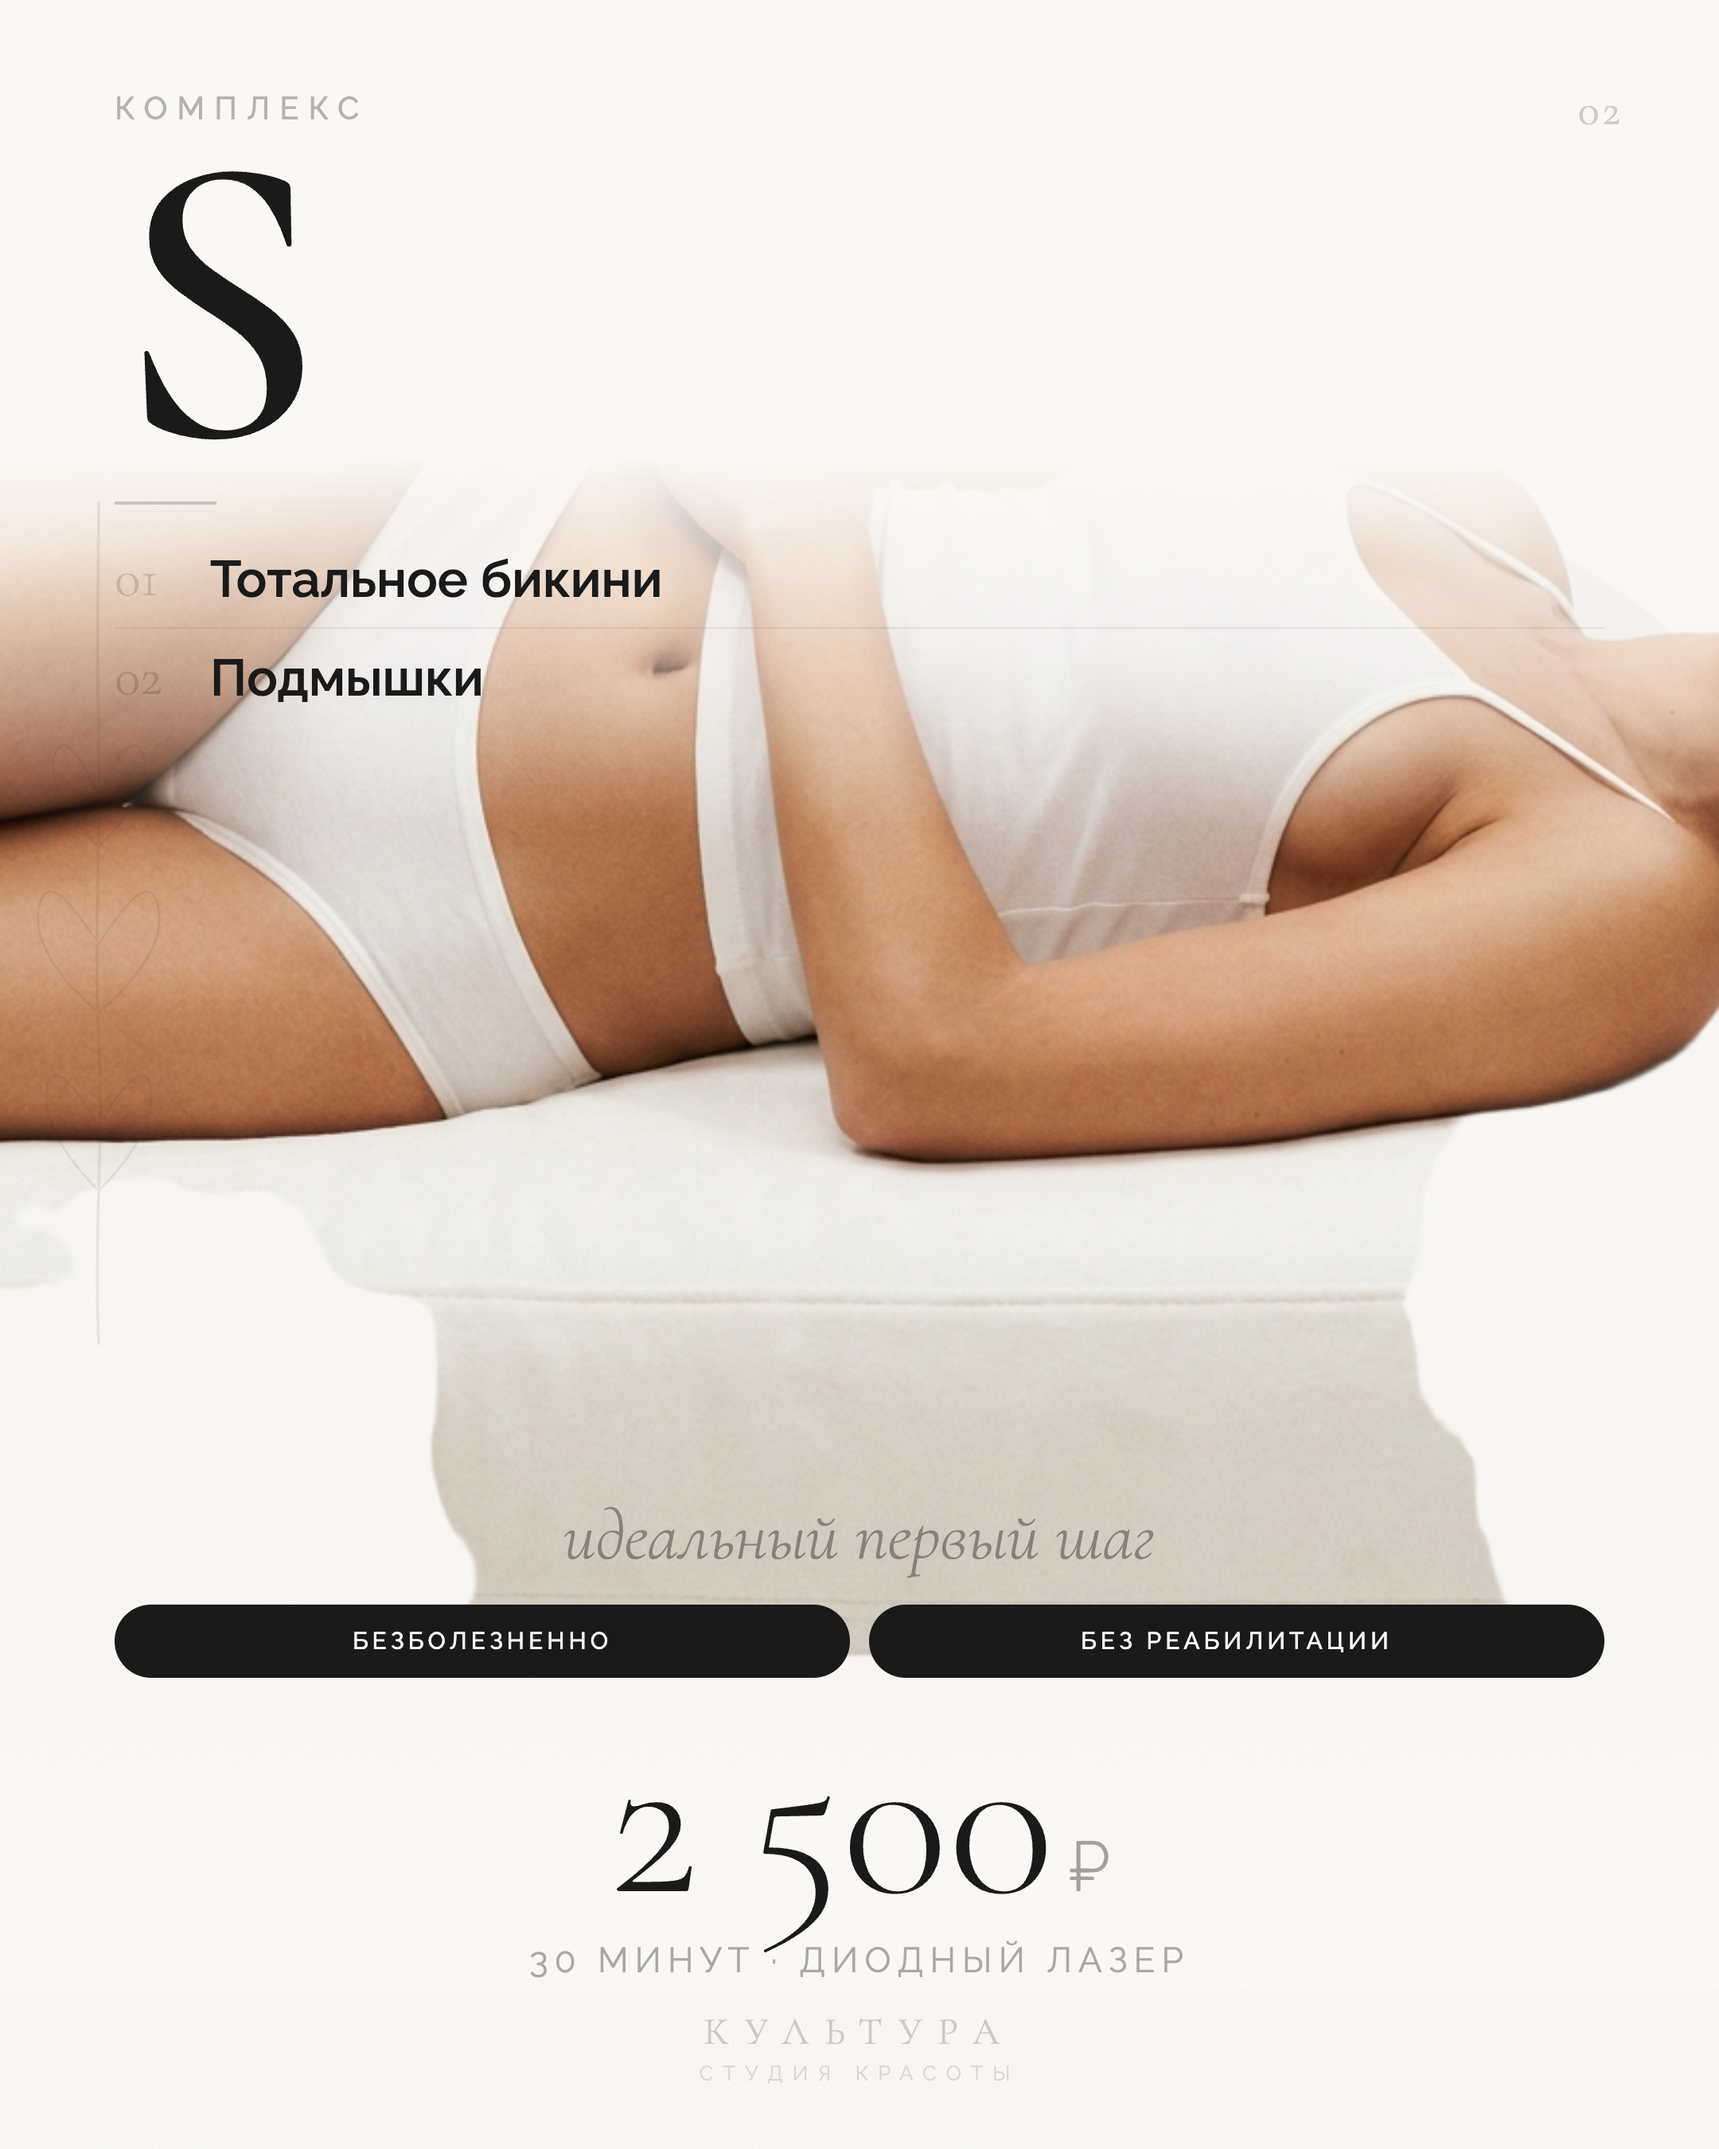
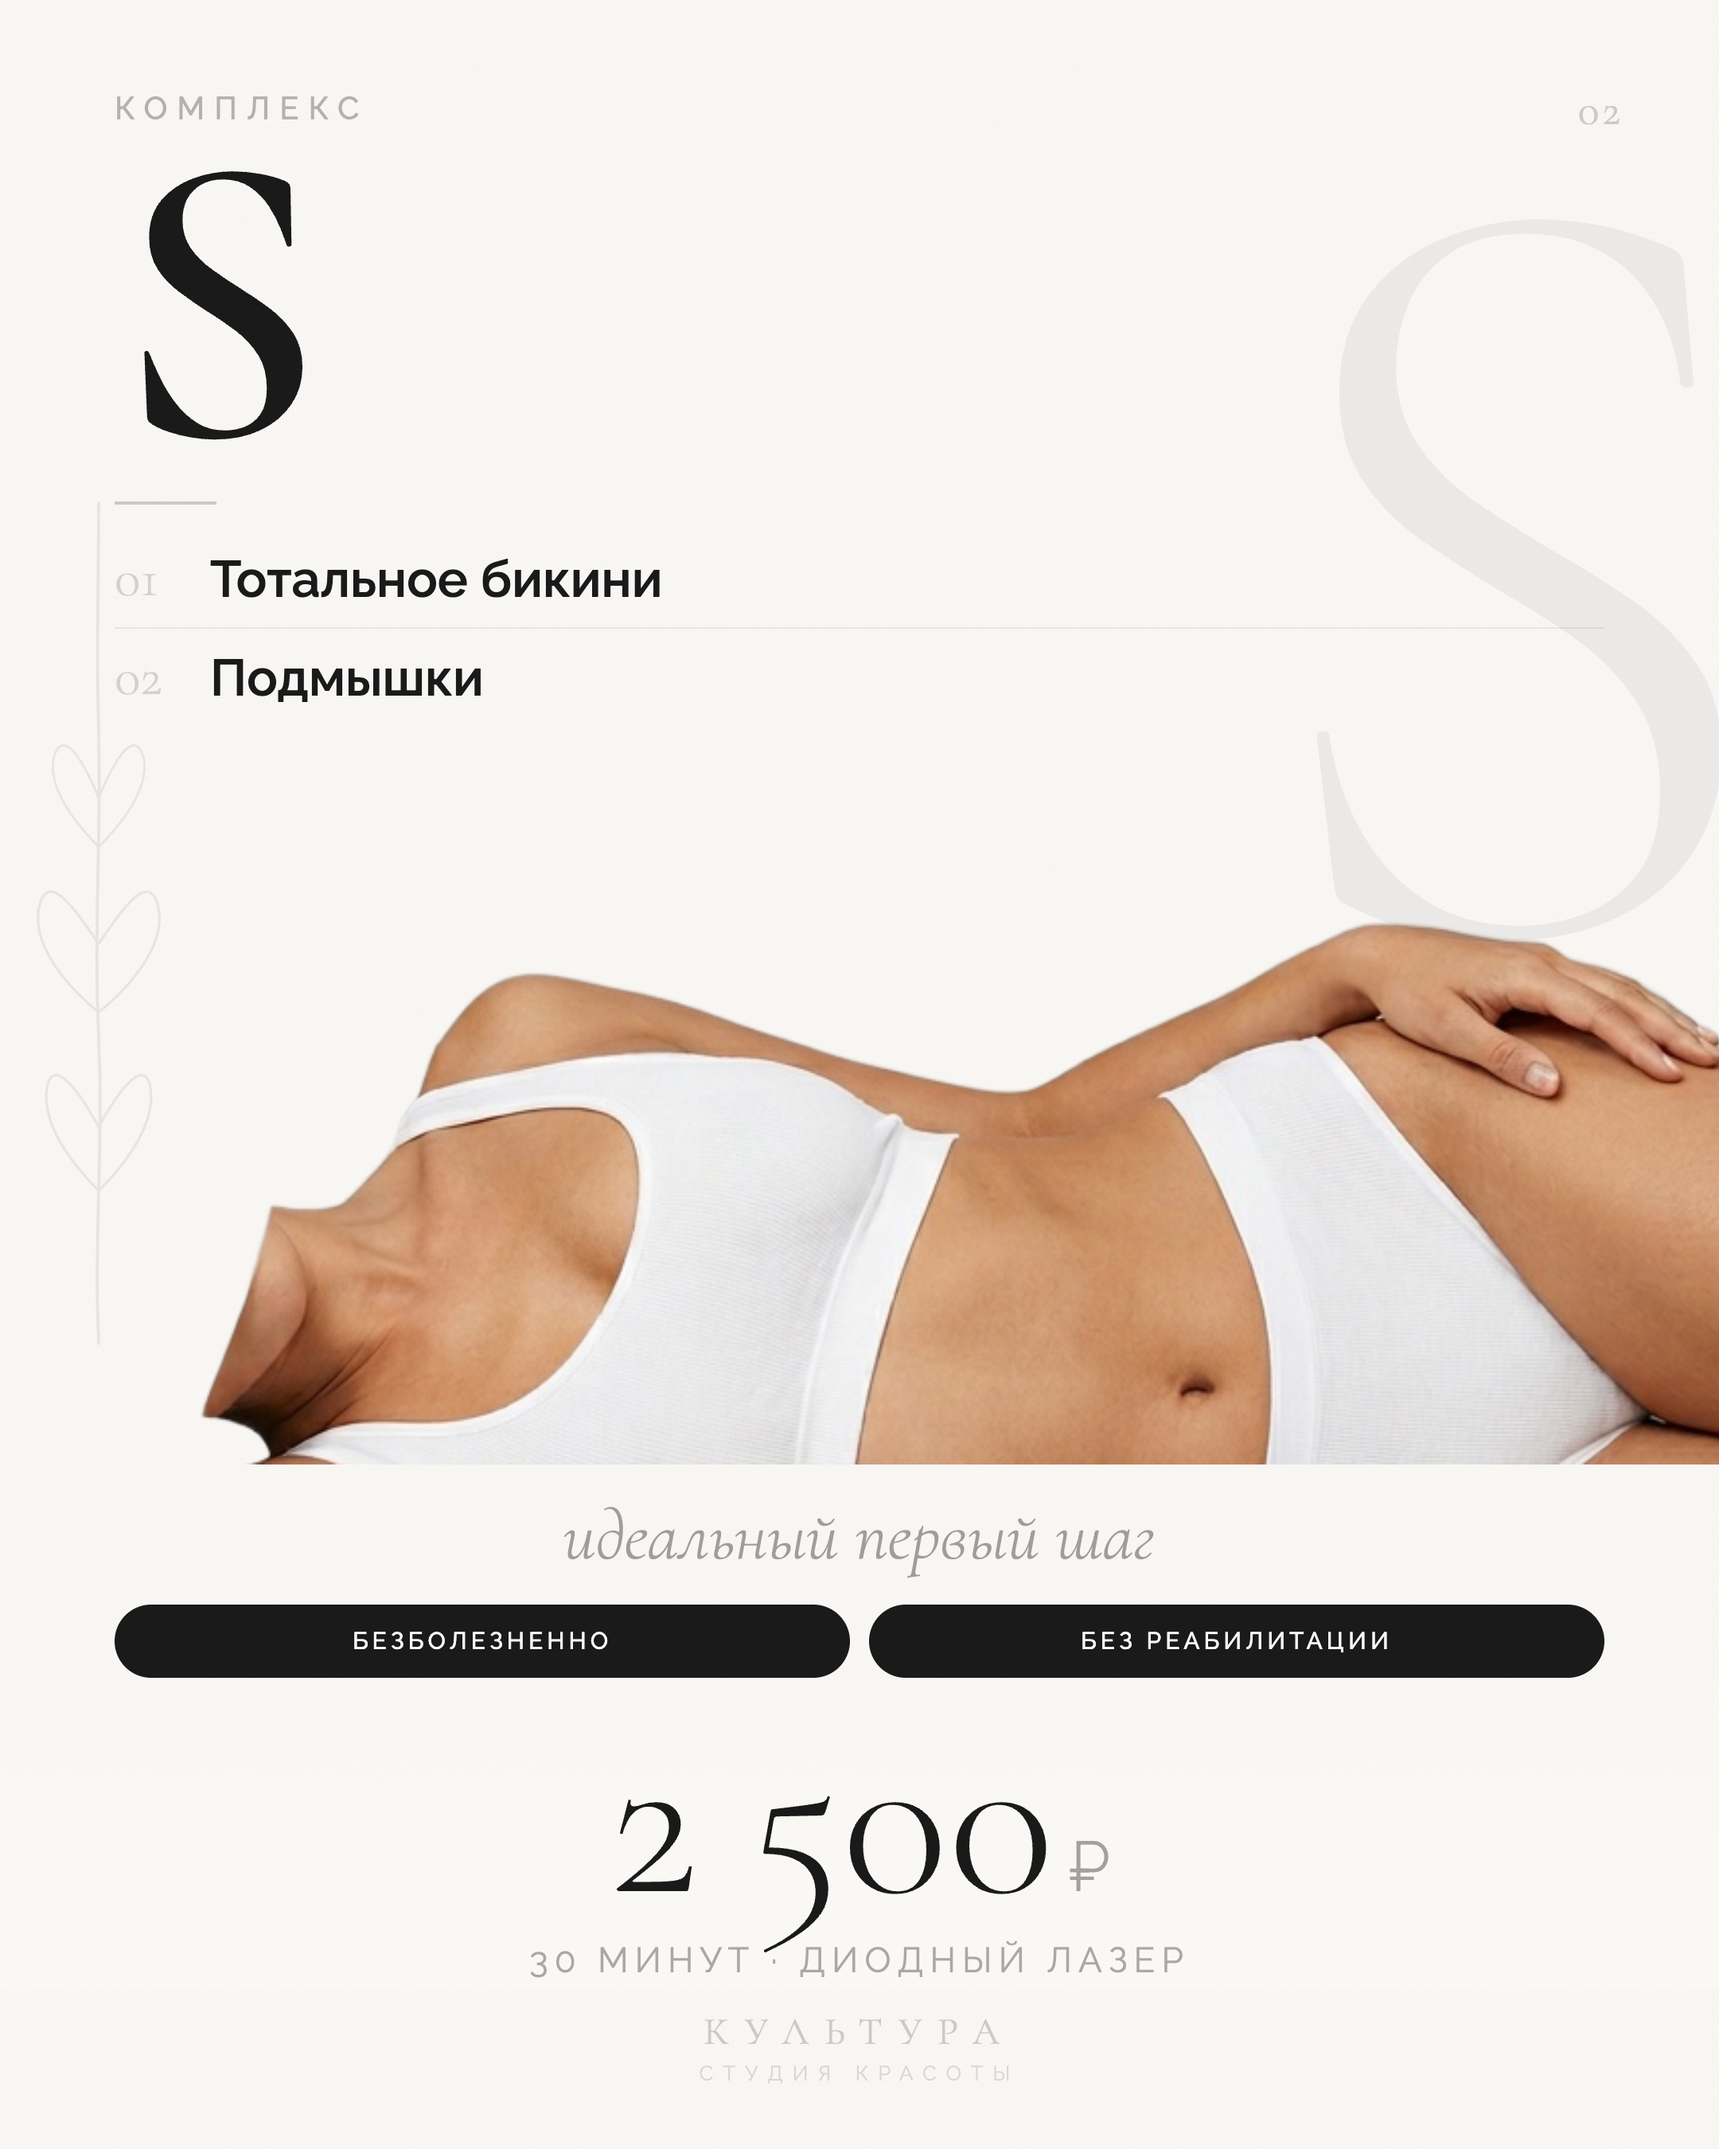
feat(BeautyCulture): slide_02 — clean body cutout, ghost S restored, no furniture
- Regenerated on gray bg → clean BRIA removal, no bed artifact
- Body image at page z-index:1, ghost S at z-index:3 (visible again)
- Top gradient removed (not needed with transparent PNG)
- Bottom fade blends body into price section

diff --git a/projects/BeautyCulture_DariaSopkina/posts/drafts/22_04_2026-1/kultura_slide_02.html b/projects/BeautyCulture_DariaSopkina/posts/drafts/22_04_2026-1/kultura_slide_02.html
@@ -13,18 +13,15 @@ body { font-family: 'Raleway', sans-serif; background: #FAF8F5; }
     <rect width="1080" height="1350" filter="url(#grain)" opacity="0.06"/>
   </svg>
 
-  <!-- Ghost letter S — bigger -->
-  <div style="position:absolute;right:-40px;top:10px;font-family:'Cormorant Garamond',serif;font-size:700px;font-weight:300;color:rgba(0,0,0,0.05);line-height:1;user-select:none;pointer-events:none;z-index:0">S</div>
+  <!-- Ghost letter S — z-index:3 so it shows above body and gradients -->
+  <div style="position:absolute;right:-40px;top:10px;font-family:'Cormorant Garamond',serif;font-size:700px;font-weight:300;color:rgba(0,0,0,0.05);line-height:1;user-select:none;pointer-events:none;z-index:3">S</div>
 
-  <!-- Body image — page level z-index:1, below botanical and content -->
-  <img src="./photo-02-body-lying-nobg.png"
-       style="position:absolute;bottom:230px;left:50%;transform:translateX(-50%);width:108%;object-fit:contain;z-index:1;pointer-events:none">
-
-  <!-- Top fade — masks body above zone list -->
-  <div style="position:absolute;top:0;left:0;right:0;height:520px;background:linear-gradient(to bottom,#FAF8F5 55%,transparent 100%);z-index:2;pointer-events:none"></div>
+  <!-- Body image — page level, sits in spacer zone between texts -->
+  <img src="./photo-02-body-v3-nobg.png"
+       style="position:absolute;top:430px;left:-30px;width:calc(100% + 60px);height:490px;object-fit:cover;object-position:center 36%;z-index:1;pointer-events:none">
 
   <!-- Bottom fade — blends body into price section -->
-  <div style="position:absolute;bottom:100px;left:0;right:0;height:200px;background:linear-gradient(to top,#FAF8F5 45%,transparent 100%);z-index:2;pointer-events:none"></div>
+  <div style="position:absolute;bottom:100px;left:0;right:0;height:200px;background:linear-gradient(to top,#FAF8F5 50%,transparent 100%);z-index:2;pointer-events:none"></div>
 
   <!-- Botanical left — above body image -->
   <svg width="80" height="560" viewBox="0 0 50 350" style="position:absolute;left:22px;top:300px;opacity:0.09;pointer-events:none;z-index:3" xmlns="http://www.w3.org/2000/svg">
